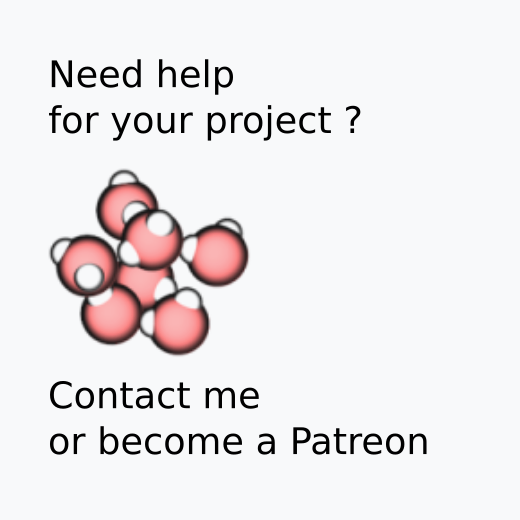
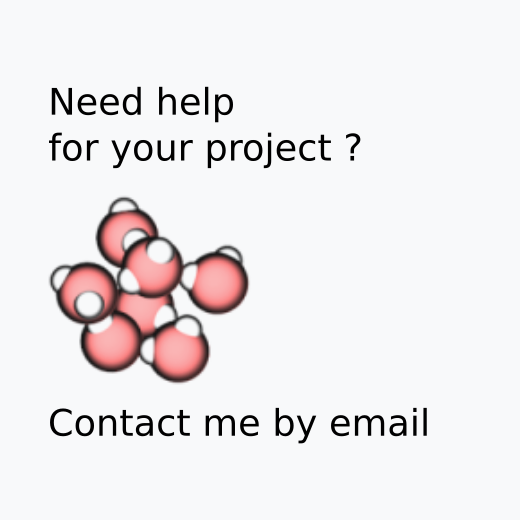
update publicity

Changed region(s): [[0.0923, 0.0923, 0.8308, 0.8923]]

diff --git a/docs/tutorials/06-FreeEnergy.html b/docs/tutorials/06-FreeEnergy.html
@@ -85,7 +85,7 @@ target="_blank" title="" data-original-title="Youtube">
 <li class="nav-item"><a class="nav-link" href="#further">Going further</a></li>
 </ul>
 <a href="https://www.patreon.com/molecularsimulations" rel='noreferrer' target="_blank">
-    <img src="../figures/pub/pub2_patreon.png" style="width:100%" alt="Contact me on patreon"/>
+    <img src="../figures/pub/pub1_patreon.png" style="width:100%" alt="Contact me on patreon"/>
 </a>
 </div>
 <div class="idocs-content">

diff --git a/docs/tutorials/02-PorousMembraneOsmosis.html b/docs/tutorials/02-PorousMembraneOsmosis.html
@@ -108,7 +108,7 @@ href="#further">Going further</a>
 </li>
 </ul>
 <a href="https://www.patreon.com/molecularsimulations" rel='noreferrer' target="_blank">
-    <img src="../figures/pub/pub2_patreon.png" style="width:100%" alt="Contact me on patreon"/>
+    <img src="../figures/pub/pub1_patreon.png" style="width:100%" alt="Contact me on patreon"/>
 </a>
 </div>
 <div class="idocs-content">

diff --git a/docs/tutorials/04-Graphene.html b/docs/tutorials/04-Graphene.html
@@ -107,7 +107,7 @@ href="#further">Going further</a>
 </li>
 </ul>
 <a href="https://www.patreon.com/molecularsimulations" rel='noreferrer' target="_blank">
-    <img src="../figures/pub/pub2_patreon.png" style="width:100%" alt="Contact me on patreon"/>
+    <img src="../figures/pub/pub1_patreon.png" style="width:100%" alt="Contact me on patreon"/>
 </a>
 </div>
 <div class="idocs-content">
